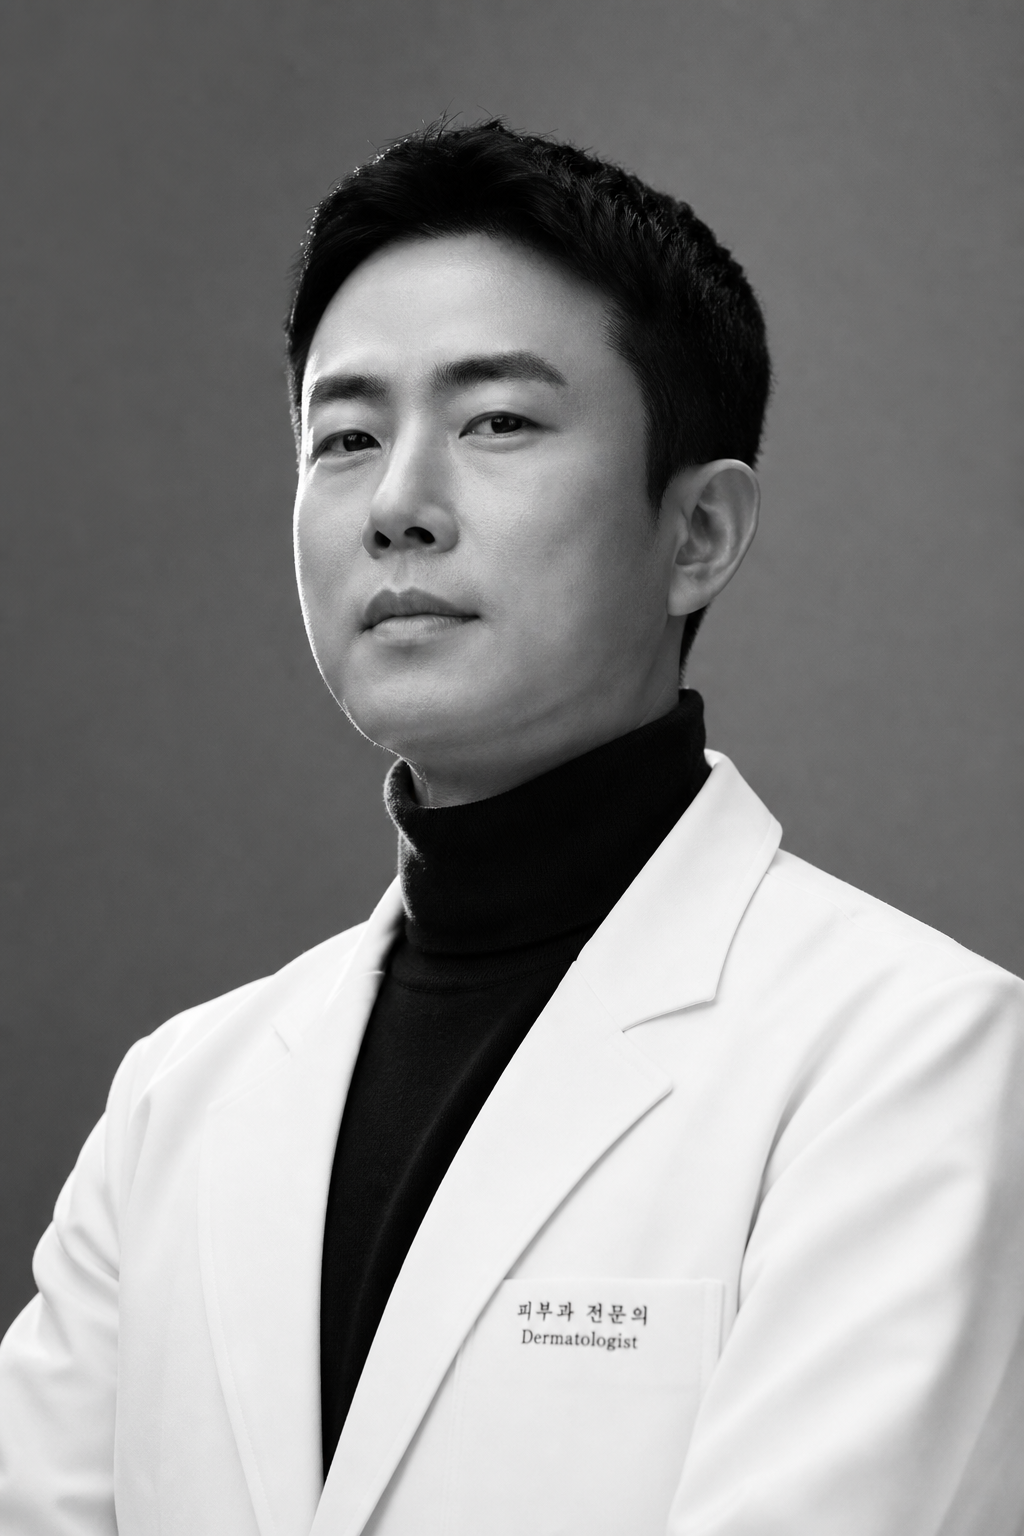
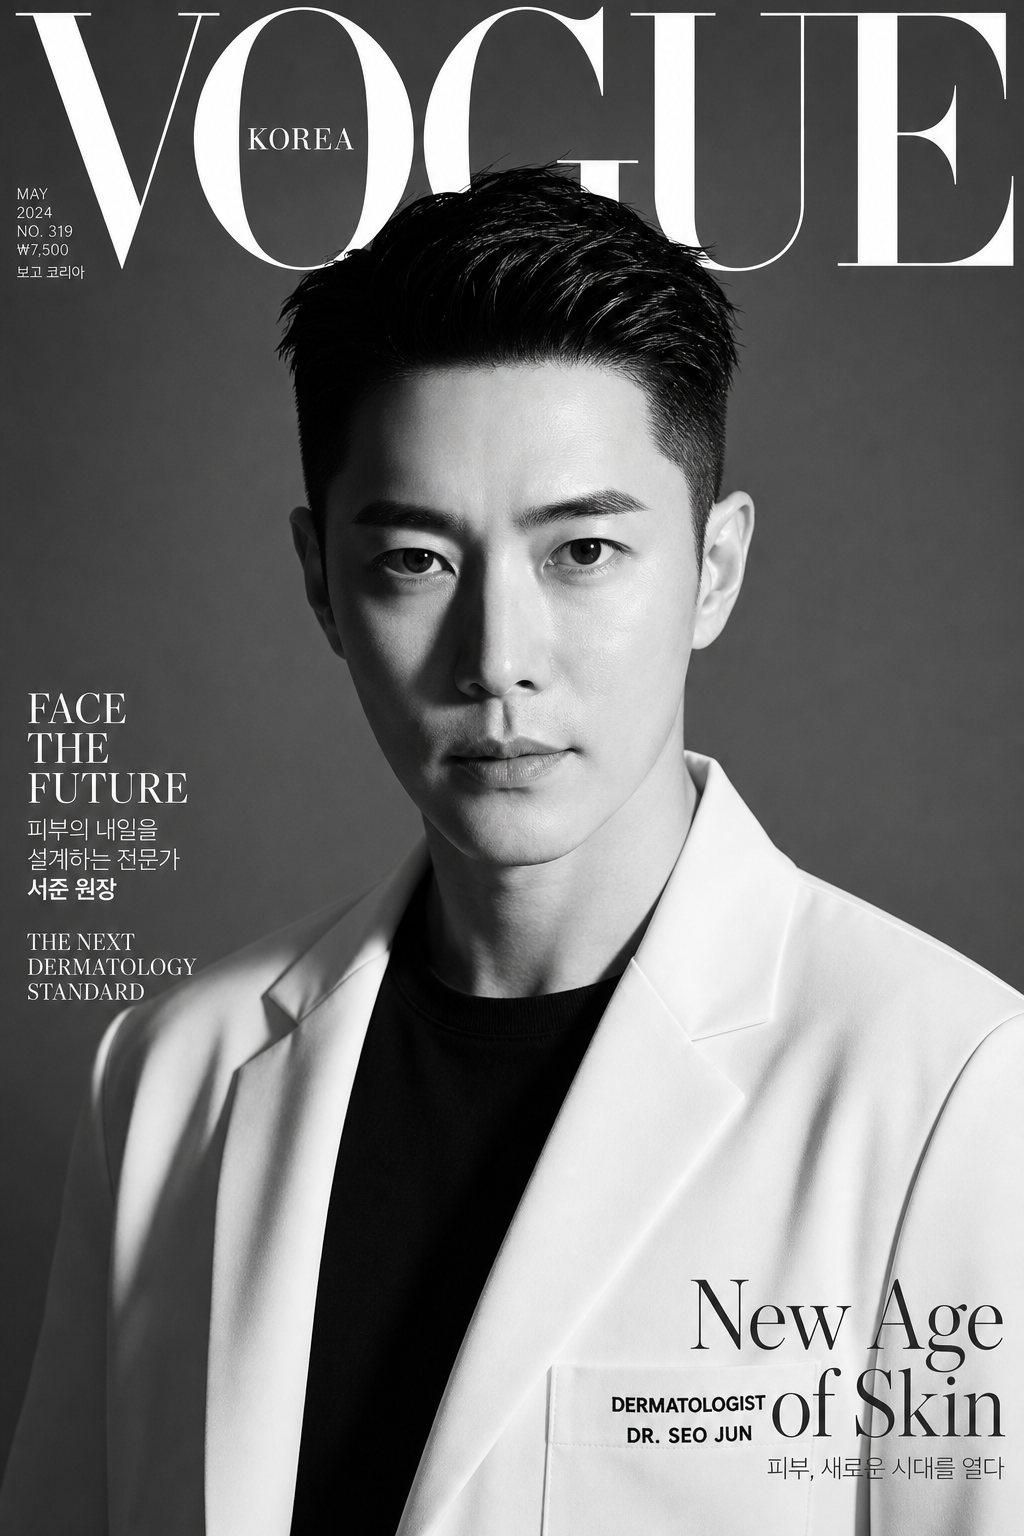
feat(visuals): integrate Higgsfield-generated cinematic photography
- Hero: full-bleed background photo (golden-hour Cheongdam lobby) replacing CSS gradient, with warm overlay + grain preserved
- About: 5-tile space grid (Lounge / Consult / Treatment / VIP Suite / Corridor) with newly generated real interiors
- visuals.ts: heroVisual, spaceVisuals.{treatment,vip,corridor}, abstractVisuals.{serumGlass,lightPattern} added
- Disclaimer updated to credit Higgsfield Soul Cinematic
- All images: editorial cinematic tone, cream/sage/terracotta palette, no people (medical ad law safe)

diff --git a/src/app/about/page.tsx b/src/app/about/page.tsx
@@ -3,11 +3,7 @@ import { SiteNav } from "@/components/common/site-nav";
 import { SiteFooter } from "@/components/common/site-footer";
 import { ReservationCta } from "@/components/sections/reservation-cta";
 import { doctors } from "@/lib/data/doctors";
-import {
-  abstractVisuals,
-  equipmentVisuals,
-  spaceVisuals,
-} from "@/lib/data/visuals";
+import { spaceVisuals } from "@/lib/data/visuals";
 import { breadcrumbLd, physiciansLd } from "@/lib/schemas/jsonld";
 
 const spaceGrid = [
@@ -28,14 +24,21 @@ const spaceGrid = [
   {
     label: "Treatment",
     caption: "시술실 · 4개",
-    visual: equipmentVisuals.ulthera,
+    visual: spaceVisuals.treatment,
     span: "md:col-span-2",
     ratio: "aspect-square",
   },
   {
-    label: "VIP Room",
+    label: "VIP Suite",
     caption: "프라이빗 케어",
-    visual: abstractVisuals.serum,
+    visual: spaceVisuals.vip,
+    span: "md:col-span-2",
+    ratio: "aspect-square",
+  },
+  {
+    label: "Corridor",
+    caption: "아치 윈도우",
+    visual: spaceVisuals.corridor,
     span: "md:col-span-4",
     ratio: "aspect-[16/10]",
   },
@@ -132,34 +135,28 @@ export default function AboutPage() {
             개의 흐름으로 이어집니다.
           </p>
           <div className="mt-10 grid gap-4 md:grid-cols-6">
-            <Placeholder
-              ratio="wide"
-              tone="soft"
-              label="Lounge"
-              caption="자연광 · 우드"
-              className="md:col-span-4"
-            />
-            <Placeholder
-              ratio="square"
-              tone="sage"
-              label="Consult"
-              caption="1:1 상담실"
-              className="md:col-span-2"
-            />
-            <Placeholder
-              ratio="square"
-              tone="terra"
-              label="Treatment"
-              caption="시술실 · 4개"
-              className="md:col-span-2"
-            />
-            <Placeholder
-              ratio="wide"
-              tone="soft"
-              label="VIP Room"
-              caption="프라이빗 케어"
-              className="md:col-span-4"
-            />
+            {spaceGrid.map((slot) => (
+              <figure
+                key={slot.label}
+                className={`relative overflow-hidden bg-bg-soft ${slot.span} ${slot.ratio}`}
+              >
+                <Image
+                  src={slot.visual.src}
+                  alt={slot.visual.alt}
+                  fill
+                  sizes="(min-width: 768px) 50vw, 100vw"
+                  className="object-cover"
+                />
+                <figcaption className="absolute inset-x-0 bottom-0 flex items-end justify-between gap-2 bg-gradient-to-t from-ink/60 to-transparent p-4 text-bg-base">
+                  <span className="font-display text-lg italic">
+                    {slot.label}
+                  </span>
+                  <span className="font-display tracking-brand text-[10px] opacity-80">
+                    {slot.caption}
+                  </span>
+                </figcaption>
+              </figure>
+            ))}
           </div>
         </section>
 

diff --git a/src/components/sections/hero.tsx b/src/components/sections/hero.tsx
@@ -1,25 +1,36 @@
 "use client";
 
 import { motion, useReducedMotion } from "motion/react";
+import Image from "next/image";
 import Link from "next/link";
 import { Button } from "@/components/ui/button";
 import { clinic } from "@/lib/data/clinic";
+import { heroVisual } from "@/lib/data/visuals";
 
 export function Hero() {
   const reduced = useReducedMotion();
   return (
     <section className="relative isolate min-h-[100svh] w-full overflow-hidden bg-ink">
-      {/* Background — animated gradient + grain */}
+      {/* Background — photo + warm overlays */}
       <div className="absolute inset-0 -z-10">
+        <Image
+          src={heroVisual.src}
+          alt={heroVisual.alt}
+          fill
+          priority
+          sizes="100vw"
+          className="object-cover"
+          style={{ filter: "brightness(0.78) contrast(1.02) saturate(0.9)" }}
+        />
         <div
-          className="absolute inset-0 hero-video"
+          className="absolute inset-0"
           style={{
             background:
-              "radial-gradient(60% 50% at 20% 30%, #C97B5A33 0%, transparent 60%), radial-gradient(50% 50% at 80% 70%, #D9E4DC22 0%, transparent 60%), linear-gradient(140deg, #2C3E36 0%, #1A2622 60%, #2C3E36 100%)",
+              "linear-gradient(180deg, rgba(26,38,34,0.45) 0%, rgba(26,38,34,0.25) 35%, rgba(26,38,34,0.7) 100%)",
           }}
         />
         <motion.div
-          className="absolute inset-0"
+          className="absolute inset-0 mix-blend-overlay"
           initial={reduced ? false : { opacity: 0.3 }}
           animate={
             reduced
@@ -29,15 +40,15 @@ export function Hero() {
                   backgroundPosition: ["0% 0%", "100% 100%", "0% 0%"],
                 }
           }
-          transition={{ duration: 16, repeat: Infinity, ease: "easeInOut" }}
+          transition={{ duration: 18, repeat: Infinity, ease: "easeInOut" }}
           style={{
             background:
-              "conic-gradient(from 120deg at 40% 60%, transparent 0deg, #C97B5A22 90deg, transparent 180deg, #D9E4DC15 270deg, transparent 360deg)",
+              "conic-gradient(from 120deg at 40% 60%, transparent 0deg, #C97B5A33 90deg, transparent 180deg, #D9E4DC22 270deg, transparent 360deg)",
             backgroundSize: "180% 180%",
           }}
         />
         <svg
-          className="absolute inset-0 h-full w-full opacity-[0.18] mix-blend-overlay"
+          className="absolute inset-0 h-full w-full opacity-[0.12] mix-blend-overlay"
           xmlns="http://www.w3.org/2000/svg"
         >
           <filter id="hero-grain">

diff --git a/src/lib/data/visuals.ts b/src/lib/data/visuals.ts
@@ -5,6 +5,13 @@ export type VisualAsset = {
   height: number;
 };
 
+export const heroVisual = {
+  src: "/images/hero/hero-bg.png",
+  alt: "앤리에 의원 로비 — 따뜻한 골든아워 라이트와 세럼톤 인테리어",
+  width: 1536,
+  height: 864,
+} as const satisfies VisualAsset;
+
 export const spaceVisuals = {
   lounge: {
     src: "/images/space/lounge.png",
@@ -17,6 +24,24 @@ export const spaceVisuals = {
     alt: "앤리에 의원 1:1 상담실 — 월넛 데스크와 사이드 윈도우 라이트",
     width: 1536,
     height: 1024,
+  },
+  treatment: {
+    src: "/images/space/treatment.png",
+    alt: "앤리에 의원 시술실 — 리넨 베드와 세이지 커튼의 자연광",
+    width: 1152,
+    height: 1536,
+  },
+  vip: {
+    src: "/images/space/vip.png",
+    alt: "앤리에 의원 VIP 프라이빗 스위트 — 베이지 트라버틴과 화이트 오키드",
+    width: 1152,
+    height: 1536,
+  },
+  corridor: {
+    src: "/images/space/corridor.png",
+    alt: "앤리에 의원 복도 — 아치 윈도우와 세라믹 조형물",
+    width: 1536,
+    height: 864,
   },
 } as const satisfies Record<string, VisualAsset>;
 
@@ -54,7 +79,19 @@ export const abstractVisuals = {
     width: 1536,
     height: 864,
   },
+  serumGlass: {
+    src: "/images/abstract/serum-glass.png",
+    alt: "유리 세럼 보틀 매크로 — 사이드 라이트와 부드러운 보케",
+    width: 1024,
+    height: 1024,
+  },
+  lightPattern: {
+    src: "/images/abstract/light-pattern.png",
+    alt: "프로스티드 글래스를 통과하는 골든아워 라이트 패턴",
+    width: 1536,
+    height: 864,
+  },
 } as const satisfies Record<string, VisualAsset>;
 
 export const aiDisclaimer =
-  "본 페이지의 일부 이미지는 AI(GPT Image)로 제작되었습니다.";
+  "본 페이지의 일부 이미지는 AI(Higgsfield Soul Cinematic)로 제작되었습니다.";
